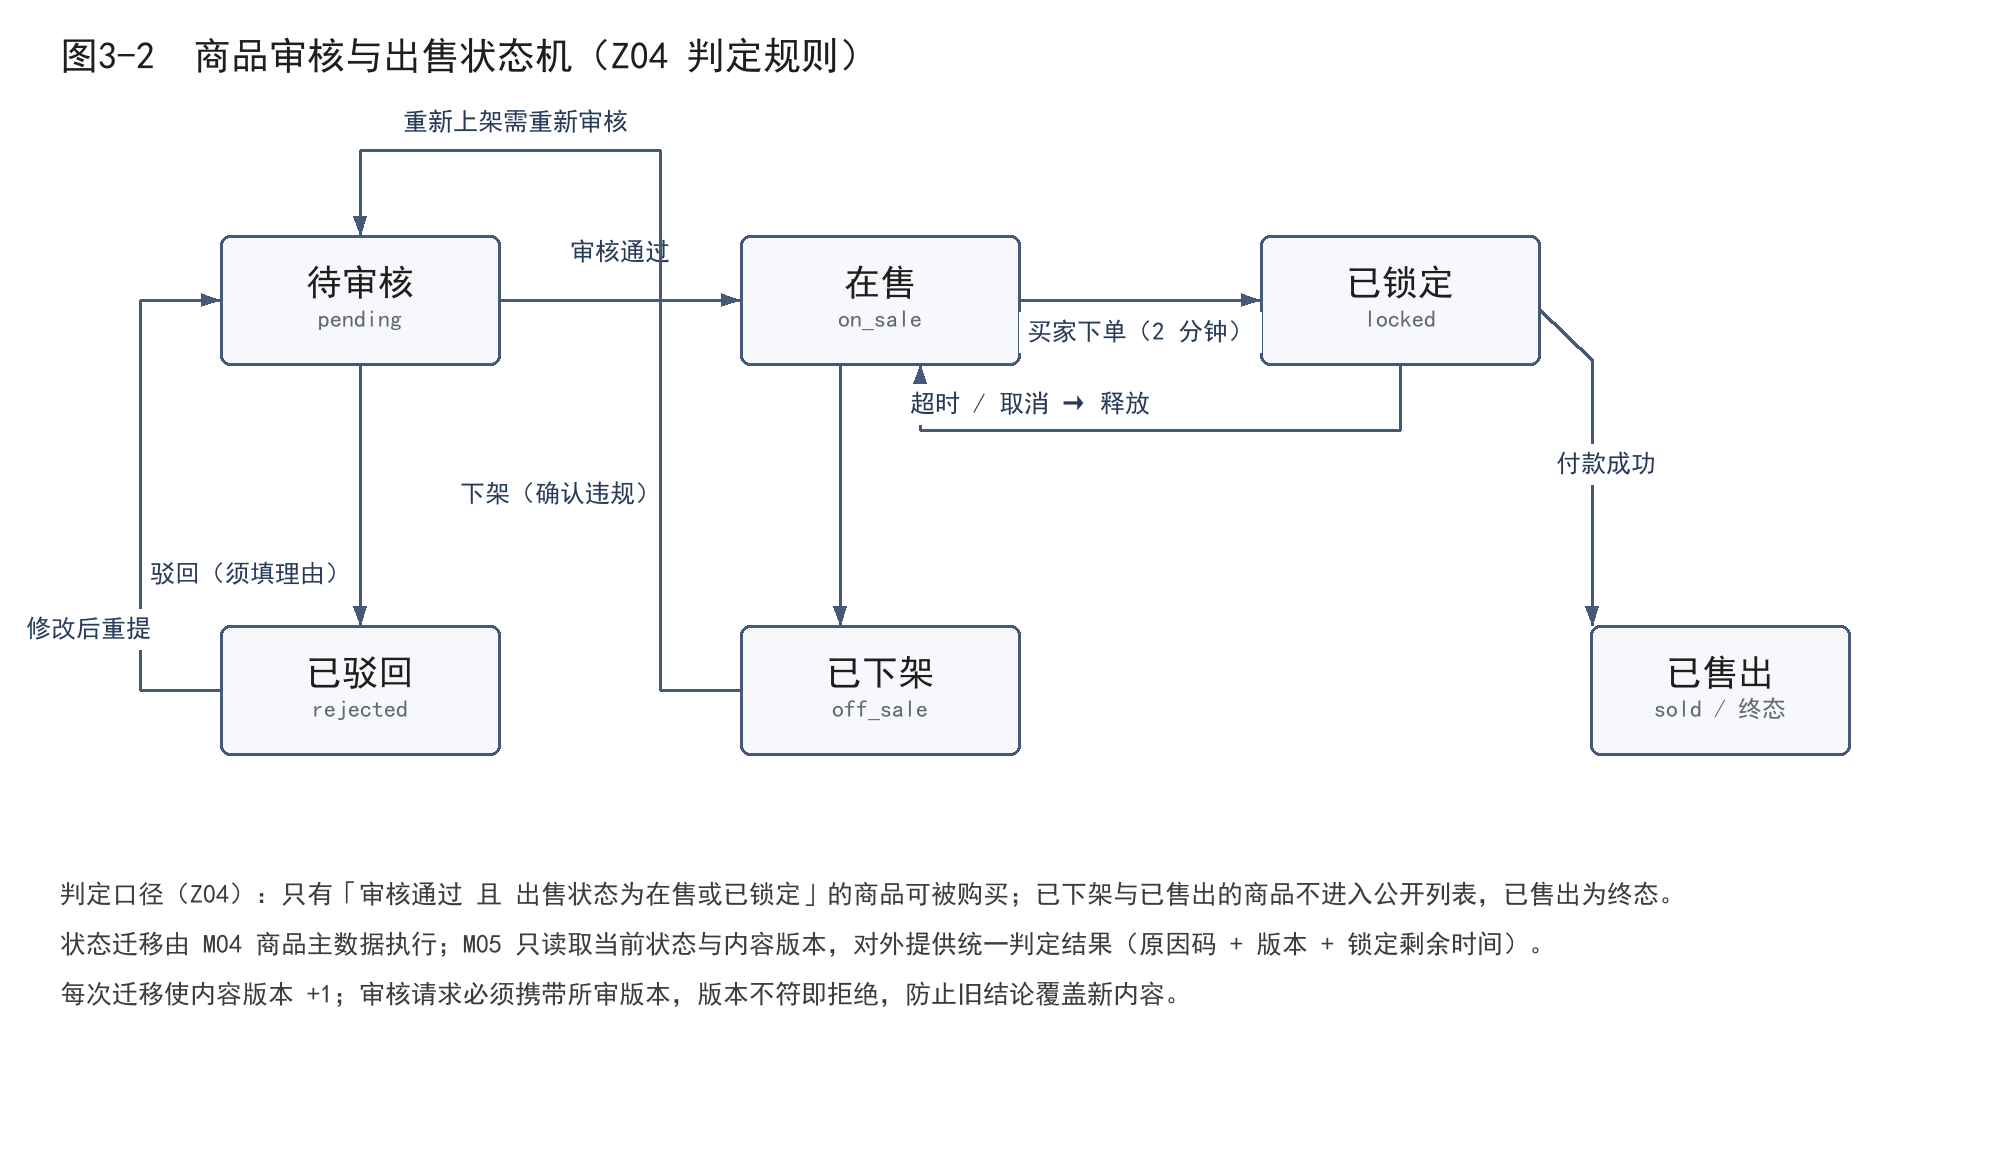
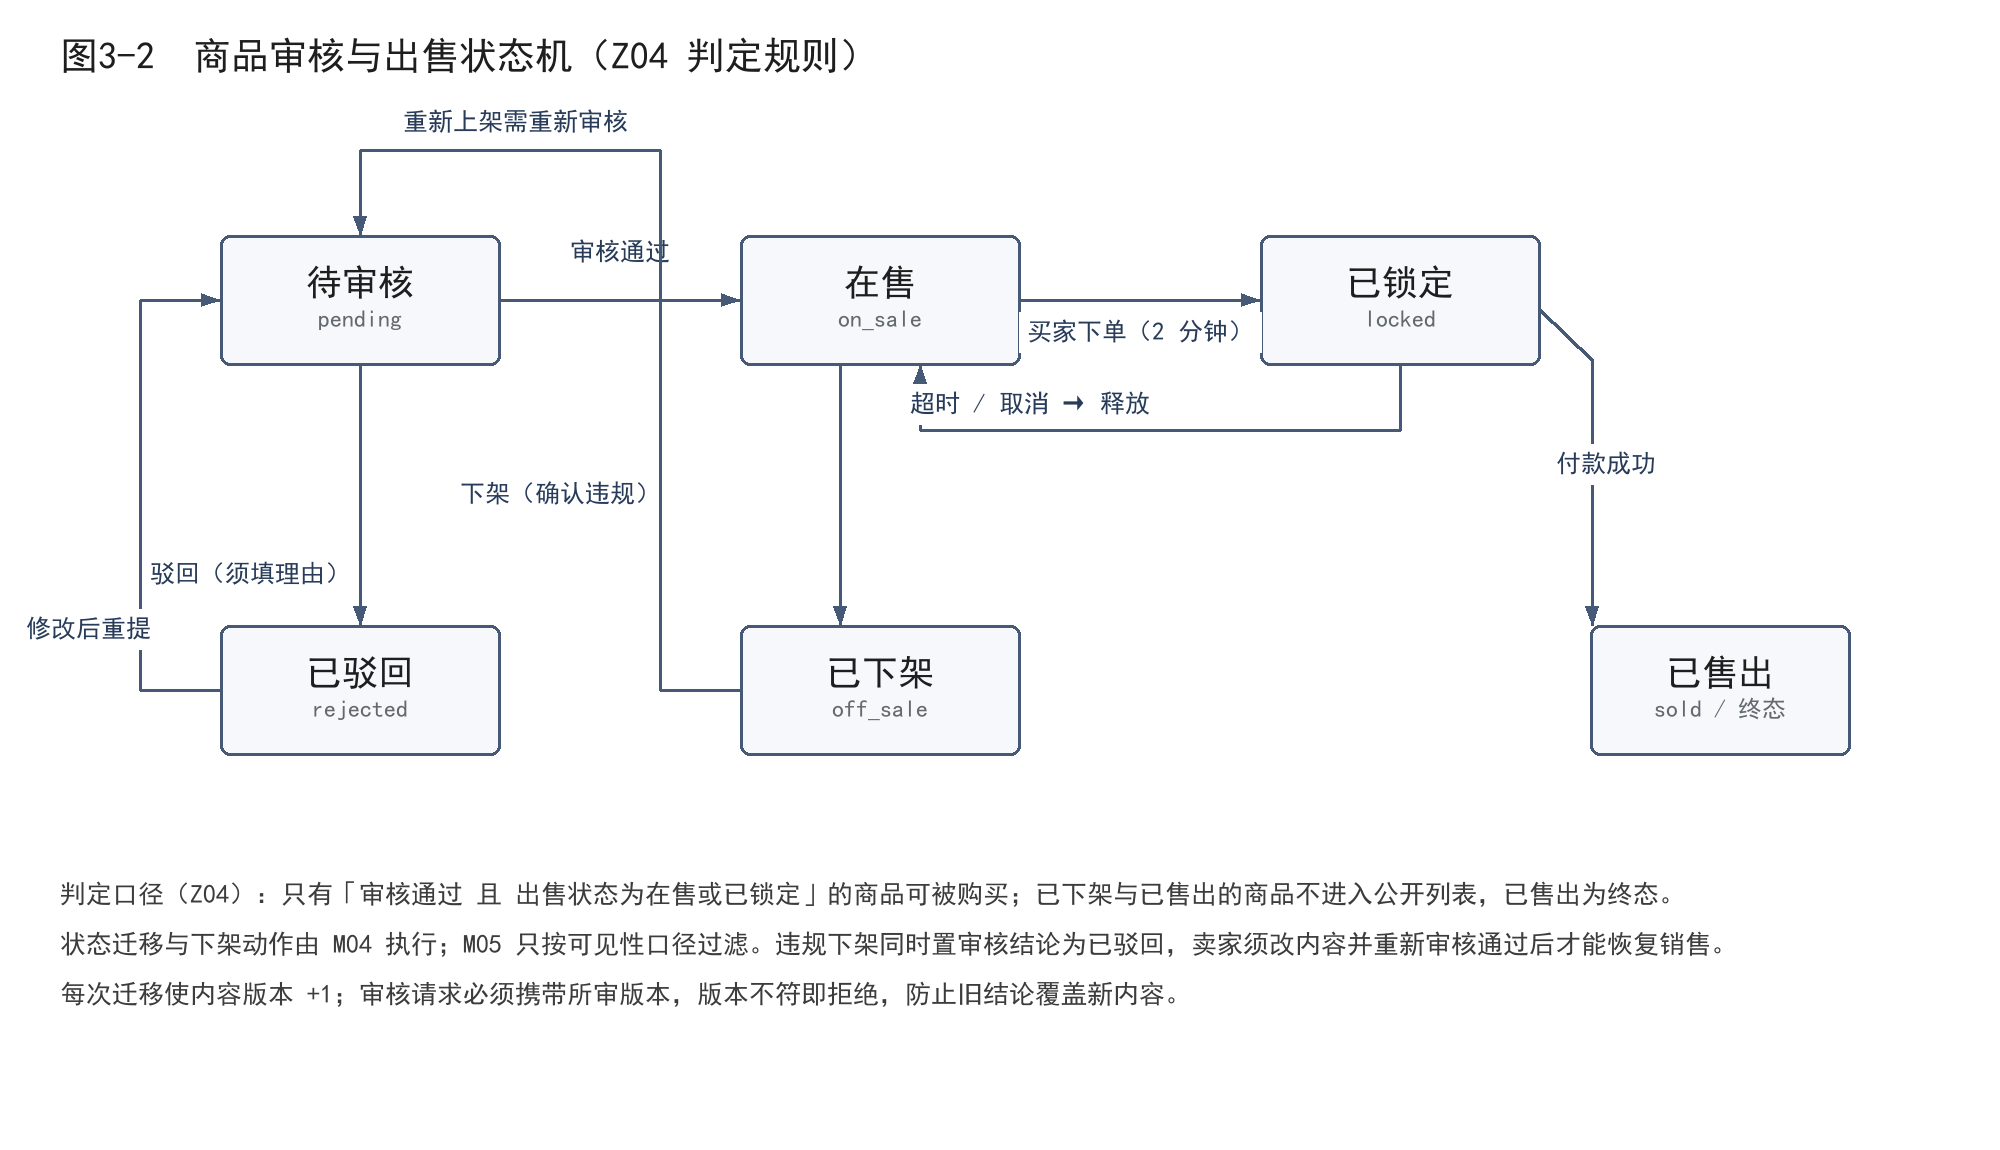
docs: Z04 补充重新上架规则，违规下架后须改内容并重新审核

Changed region(s): [[0.279, 0.7913, 0.868, 0.8522], [0.093, 0.7913, 0.186, 0.8522]]

diff --git a/docs/个人专项作业/刘志成/需求分析/03-阶段3.0-工程化审定-V1.1.md b/docs/个人专项作业/刘志成/需求分析/03-阶段3.0-工程化审定-V1.1.md
@@ -31,7 +31,7 @@
 | Z01 M05 | 商品列表与详情。公开列表与详情仅展示审核通过且在售的商品，显示名称、价格、描述、图片与可购买状态；待审核、已驳回、违规下架的商品不进入公开结果；已售出商品保留可查询的成交状态说明。 | 高 | FR-05 | 以驳回、下架、已售出三种商品分别请求列表与详情，均不出现可购买入口；已售出详情返回成交状态而非 404。 |
 | Z02 M05 | 检索与分页。支持按关键词与分类筛选，按稳定顺序分页；无匹配结果时返回空集合与明确提示；响应回传查询条件与分页信息，便于页面保持查询状态。 | 中 | FR-05 细化 | 同一查询重复执行结果顺序一致；翻页不重复不遗漏；空结果与非法页码返回可识别提示。 |
 | Z03 M05 | 可购买状态只读展示。列表与详情返回商品当前的出售状态与占用情况，页面据此显示「可购买 / 已锁定（剩余秒数）/ 已售出」，并在不可购买时给出原因文案。判定与下单校验由 M02 在其事务内完成，本模块不提供校验接口、不参与加锁。 | 高 | V1.2 变更新增；FR-08 | 三种展示状态均可构造并命中；页面显示的剩余秒数与服务端业务时钟一致；M05 不被任何下单事务调用（可通过接口清单核对）。 |
-| Z04 M05 | 公开可见性口径。公开列表与检索只包含「审核通过」且「出售状态为在售或已锁定」的商品；待审核、已驳回、已下架、已售出的商品不出现。「锁定」不是商品状态，而是订单租约（M02 写入订单号与到期时间），锁定期间商品仍可见但不可下单。状态迁移由 M04 执行，本模块只按上述组合过滤，不定义迁移规则。 | 高 | FR-06 细化；过滤归 M05，迁移执行归 M04 | 构造「审核中卖家改内容」场景，旧审核提交被拒绝；下架商品在列表与详情中均不可见；状态非法跳转由 M04 拒绝并记录原因。 |
+| Z04 M05 | 公开可见性口径与重新上架规则。公开列表与检索只包含「审核通过」且「出售状态为在售或已锁定」的商品；待审核、已驳回、已下架、已售出的商品不出现。「锁定」不是商品状态，而是订单租约（M02 写入订单号与到期时间），锁定期间商品仍可见但不可下单。违规下架与卖家自主下架必须区分：违规下架由管理员经 M04 的下架接口执行，同时把审核结论置为已驳回，卖家须修改内容并重新通过审核才能恢复销售；卖家自主下架可自行重新上架。若不区分，卖家点一次「上架」即可撤销处置效果。已下架商品的在途订单继续履约，退款由售后流程裁定。 | 高 | FR-06 细化；过滤归 M05，状态迁移与下架动作归 M04 | 构造「审核中卖家改内容」场景，旧审核提交被拒绝；违规下架后卖家直接点「上架」不生效，须改内容并重新通过审核；卖家自主下架后可自行恢复在售；违规下架不会中止已有订单。 |
 | Z05 M05 | 分类与检索字段维护。维护分类体系与可检索字段（名称、描述、分类）；分类调整只影响后续查询，不改变已提交订单所记录的商品快照。 | 中 | FR-05 细化 | 调整分类后已成交订单仍显示原分类；新增分类后列表可按新分类筛选。 |
 | Z06 M06 | 商品审核。管理员查看待审核商品的内容、图片与当前版本，记录通过或驳回的结论与理由；驳回后卖家可修改并重提，重提生成新版本供再次审核。 | 高 | FR-06 | 通过与驳回均产生审核记录；驳回必须填写理由；重提后版本递增且需重新审核。 |
 | Z07 M06 | 违规举报。用户对公开商品提交商品号、举报理由与可选凭证图片，系统生成可查询的举报记录，记录举报人与提交时间。 | 中 | FR-07 | 缺理由或商品号不存在时拒绝；同一用户重复举报同一商品按去重规则处理；提交后可在本人列表查到。 |

diff --git a/docs/个人专项作业/刘志成/功能清单.md b/docs/个人专项作业/刘志成/功能清单.md
@@ -8,7 +8,7 @@
 
 卖家发布商品并设定价格 → 商品进入待审核 → 管理员审核，给出通过或驳回结论与理由 → 通过后在售并进入公开列表 → 买家在商品页直接下单，M02 在自身事务内校验可购买状态并锁定商品 → 付款成功后商品标记已售出。M05 只负责列表展示与检索口径，不参与该事务。
 
-商品在售期间，买家可对公开商品提交违规举报 → 管理员核查并记录结论 → 确认违规时经 M04 下架商品，已有订单与交易记录继续保留。
+商品在售期间，买家可对公开商品提交违规举报 → 管理员核查并记录结论 → 确认违规时经 M04 下架商品并强制重新审核，已有订单与交易记录继续保留。
 
 审核与处置均使用商品内容版本进行校验：管理员提交的结论只能对应其读取到的内容版本，卖家在审核期间修改商品会导致本次审核作废并需重新读取。商品状态由 M04 统一写入，M05 只读取、只展示，M06 只保存结论。
 
@@ -32,10 +32,10 @@
 - 验收：九种原因码均可构造并命中；返回版本与商品当前版本一致；M02 未调用本接口时下单应被拒绝；锁定到期后同一商品重新返回可购买。
 - 对应团队需求：FR-08 的状态展示部分；判定由 M02 承担。
 
-### Z04 可见性与可购买性判定规则
+### Z04 公开可见性口径与重新上架规则
 
-- 功能：商品对外可见且可购买，须同时满足「审核通过」与「出售状态为在售或已锁定」；已下架、已售出的商品不进入公开列表。审核通过、驳回、上架、下架、锁定、售出等状态迁移由 M04 商品主数据执行，本模块只声明判定所依赖的状态组合并对外提供判定结果。状态变更携带商品版本，旧版本审核结论不得覆盖新内容。
-- 验收：构造「审核中卖家修改内容」场景，旧审核提交被拒绝；下架商品在列表与详情中均不可见；非法状态跳转由 M04 拒绝并记录原因；物流事件不得回写商品状态。
+- 功能：公开列表与检索只包含「审核通过」且「出售状态为在售或已锁定」的商品；待审核、已驳回、已下架、已售出的商品不出现。违规下架与卖家自主下架必须区分：违规下架由管理员经 M04 的下架接口执行，同时把审核结论置为已驳回，卖家须修改内容并重新通过审核才能恢复销售；卖家自主下架可自行重新上架。状态迁移与下架动作由 M04 执行，本模块只按可见性口径过滤。
+- 验收：构造「审核中卖家修改内容」场景，旧审核提交被拒绝；违规下架后卖家直接点「上架」不生效，须改内容并重新通过审核；卖家自主下架后可自行恢复在售；违规下架不中止已有订单；物流事件不得回写商品状态。
 - 对应团队需求：FR-06 细化；V1.2 变更后补充。过滤口径归 M05，状态迁移的执行归 M04。
 
 ### Z05 分类与检索字段维护

diff --git a/docs/个人专项作业/刘志成/架构设计/01-阶段1-项目上下文.md b/docs/个人专项作业/刘志成/架构设计/01-阶段1-项目上下文.md
@@ -31,7 +31,7 @@
 | 类型 | 内容 | 对架构的约束 |
 |---|---|---|
 | 功能驱动 | Z01 列表与详情、Z02 检索与分页、Z03 可购买状态只读展示、Z04 公开可见性口径、Z05 分类与检索字段、Z06 审核、Z07 举报、Z08 处置、Z09 权限与追踪。 | 需在进程内提供稳定的查询出口与一个事务内可调用的校验出口。 |
-| 质量驱动 | NFR-Z01 性能（P95 ≤ 2 秒）；NFR-Z02 一致性（并发争抢同一商品成功数 ≤ 1）；NFR-Z03 可见性正确（待审核与下架商品 0 次出现）；NFR-Z04 隐私；NFR-Z05 可追溯。 | 可见性判定必须唯一且可被并发校验；审计写入与业务写入同事务。 |
+| 质量驱动 | NFR-Z01 性能（P95 ≤ 2 秒）；NFR-Z02 一致性（并发争抢同一商品成功数 ≤ 1）；NFR-Z03 可见性正确（待审核与下架商品 0 次出现）；NFR-Z04 隐私；NFR-Z05 可追溯。重新上架规则：违规下架后须改内容并重新审核通过，卖家不能单点「上架」撤销处置。 | 可见性判定必须唯一且可被并发校验；审计写入与业务写入同事务。 |
 | 约束驱动 | DC-Z02 本机运行、断网演示；DC-Z03 技术栈由团队统一，未定；DC-Z04 全程模拟；DC-Z01 四人六周。 | 排除多进程部署、消息中间件与外部服务；保留单库事务。 |
 
 ### 1.3　关键易变点清单
@@ -43,5 +43,5 @@
 | 编号 | 易变点 | 影响面 | 隔离方式 | 承载模块 |
 |---|---|---|---|---|
 | V-Z01 | 分类体系与可检索字段的口径调整（分类层级、是否支持描述模糊匹配） | 列表、检索、分页、前端筛选器 | 对外只暴露查询接口与分类字典，内部映射表可替换 | M05 CatalogQuery |
-| V-Z02 | 审核通过后的上架规则（是否自动上架、驳回后重提次数、下架后的详情可见性） | 可见性过滤与状态展示、详情页展示 | 收敛为独立的过滤对象，过滤条件以配置表达 | M05 CatalogFilter |
+| V-Z02 | 审核通过后的上架规则（是否自动上架、驳回后重提次数、违规下架后是否强制重审） | 可见性过滤与状态展示、详情页展示 | 收敛为独立的过滤对象，过滤条件以配置表达 | M05 CatalogFilter |
 | V-Z03 | 举报处置口径（是否下架、是否通知卖家、是否标记处置中） | 处置流程、商品状态、通知内容 | 处置动作抽象为策略，与举报记录解耦 | M06 ModerationService |

diff --git a/docs/个人专项作业/刘志成/架构设计/03-阶段3-结构设计.md b/docs/个人专项作业/刘志成/架构设计/03-阶段3-结构设计.md
@@ -27,7 +27,7 @@
 | AD-Z01 | 沿用团队总架构（B/S + 分层单体 + 同步事务），本人切片不另立风格。 | 【AI-Adopted】团队架构总稿；DC-Z02、NFR-Z02。 |
 | AD-Z02 | 可见性过滤条件收敛为 CatalogFilter 单一常量，列表、详情与检索共用。 | 【Revised】借用 A 的封装思路，限制为进程内常量。 |
 | AD-Z03 | 审核与处置写入采用商品版本栅栏。 | 【Revised】解决 FR-06 的版本竞争，见 R-Z02。 |
-| AD-Z04 | 商品主数据写入收归 M04 受控接口，M06 只保存结论。 | 【AI-Adopted】方案B 的单一写入方。 |
+| AD-Z04 | 商品主数据写入收归 M04 受控接口，M06 只保存结论；违规下架由 M04 的下架接口执行并强制重新审核。【Revised】与 M04 负责人确认后补：下架同时置审核结论为已驳回，避免卖家自行上架撤销处置。 |  |
 | AD-Z05 | 通知采用事务内待发事件 + 提交后分发。 | 【Revised】借用 A，仅用于通知。 |
 | AD-Z06 | 引入独立检索服务与读模型投影。 | 【Rejected】四人六周不可交付，违反避免过度设计。 |
 | AD-Z07 | 审核侧持商品副本并以事件回写商品状态。 | 【Rejected】破坏单一数据源，版本竞争不可收敛。 |
